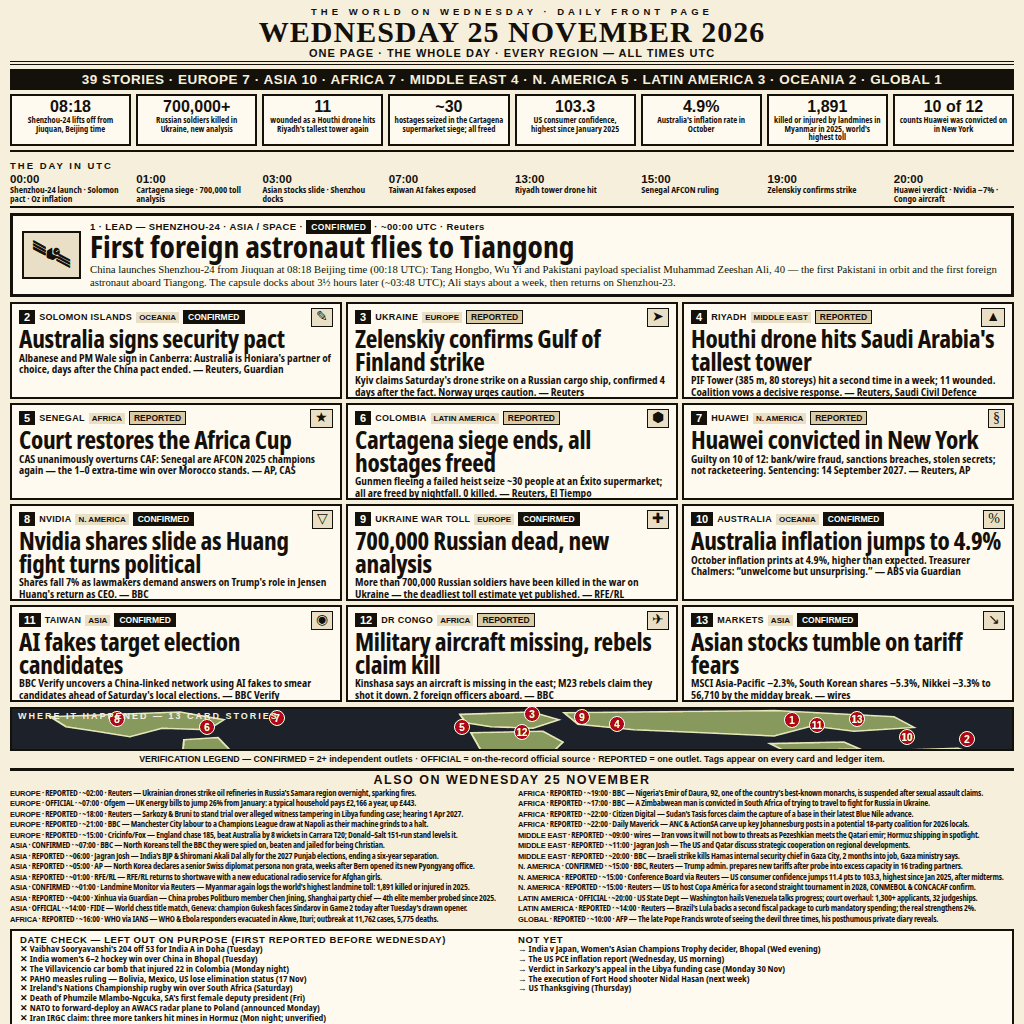
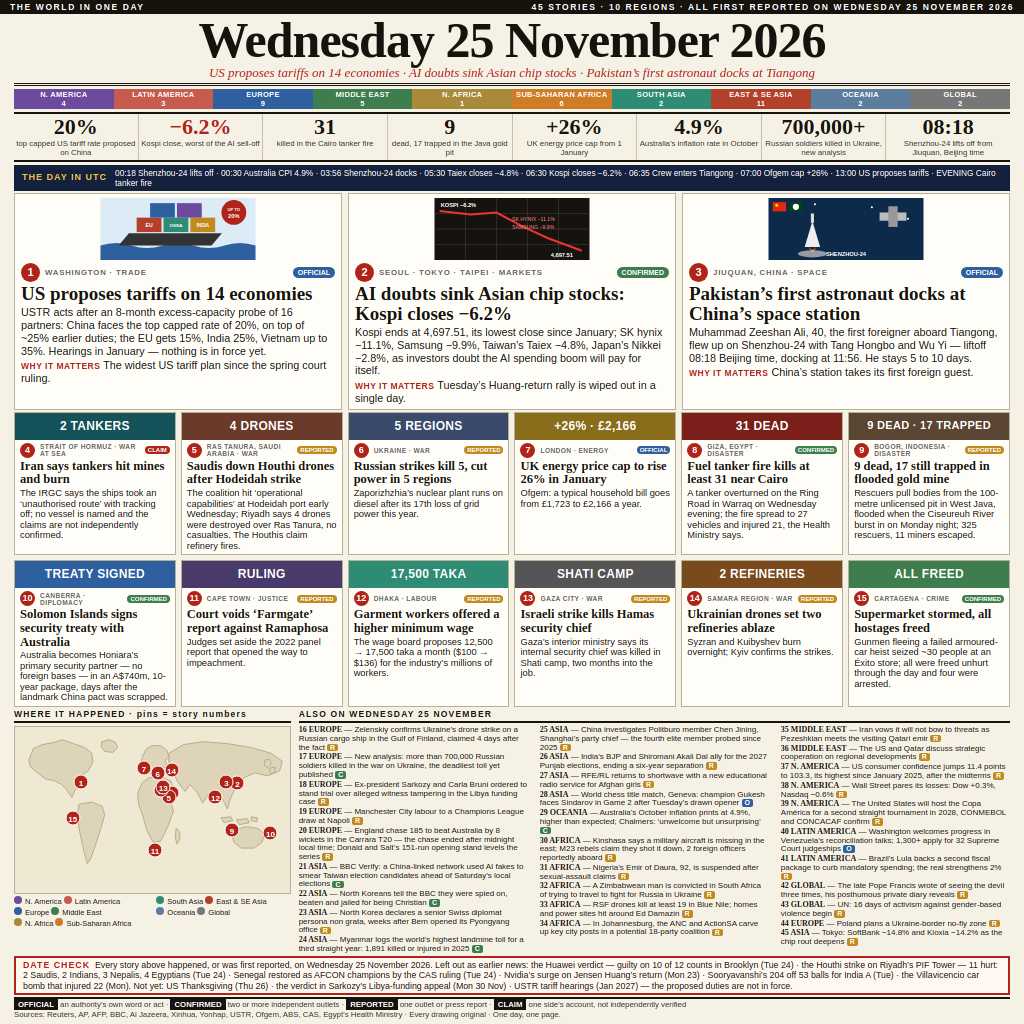
News 25 total revision

diff --git a/main.py b/main.py
@@ -1,25 +1,36 @@
-"""news-image-20261125 entry: Wednesday 25 November 2026 in one page.
+"""Entry point for the news-image-20261125 submission.
 
-The front page is rendered ahead of time by the build pipeline and stored
-beside this file as art.png. This program's whole job is to deliver those
-exact bytes as entry.png in the output directory, using nothing but the
-Python standard library, so the two grading runs agree byte for byte.
+Copies the shipped newspaper page image (``art.png``, stored next
+to this file) to ``entry.png`` in the output directory, verifies
+the copy by size and SHA-256, and repeats the copy under a temp
+name to prove both runs write identical bytes.
+Standard library only.
 """
 
 import os
-import shutil
+from pathlib import Path
 
-HERE = os.path.dirname(os.path.abspath(__file__))
-SOURCE = os.path.join(HERE, "art.png")
-DEFAULT_OUTPUT_DIR = "/output"
+import copier
 
 
 def main() -> None:
-    output_dir = os.environ.get("MAKEFUN_OUTPUT_DIR", DEFAULT_OUTPUT_DIR)
-    os.makedirs(output_dir, exist_ok=True)
-    target = os.path.join(output_dir, "entry.png")
-    with open(SOURCE, "rb") as src, open(target, "wb") as dst:
-        shutil.copyfileobj(src, dst, length=1024 * 64)
+    here = Path(__file__).resolve().parent
+    source = here / "art.png"
+    out_dir = Path(os.environ.get("MAKEFUN_OUTPUT_DIR", "/output"))
+    dest = out_dir / "entry.png"
+
+    # First copy: the deliverable.
+    size, digest = copier.copy_entry(source, dest)
+    assert copier.verify_entry(dest, size, digest), "entry.png failed verification"
+
+    # Second copy to a temp name: hashes must match the first run.
+    repeat = out_dir / "entry.repeat.tmp.png"
+    size2, digest2 = copier.copy_entry(source, repeat)
+    assert (size2, digest2) == (size, digest), "repeat copy differs"
+    assert copier.verify_entry(repeat, size, digest), "repeat copy failed verification"
+    repeat.unlink()
+
+    print(f"entry.png: {size} bytes sha256={digest[:16]}… verified")
 
 
 if __name__ == "__main__":

diff --git a/copier.py b/copier.py
@@ -1,0 +1,39 @@
+"""Copy helper for the news-image entry.
+
+The entry image is shipped in the repository as data (``art.png``).
+This module copies it to the output location and proves, by size
+and SHA-256, that the bytes written are exactly the bytes shipped.
+Only the Python standard library is used.
+"""
+
+import hashlib
+from pathlib import Path
+
+
+def sha256_of(data: bytes) -> str:
+    """Return the hex SHA-256 digest of *data*."""
+    return hashlib.sha256(data).hexdigest()
+
+
+def copy_entry(source: Path, dest: Path) -> tuple[int, str]:
+    """Copy *source* to *dest*, creating parent directories.
+
+    Returns a ``(size, sha256)`` tuple describing the bytes copied,
+    so callers can verify the copy without re-reading the source.
+    """
+    data = source.read_bytes()
+    dest.parent.mkdir(parents=True, exist_ok=True)
+    dest.write_bytes(data)
+    return len(data), sha256_of(data)
+
+
+def verify_entry(path: Path, expected_size: int, expected_sha256: str) -> bool:
+    """Re-read *path* and check its size and SHA-256.
+
+    Returns True only when both the byte count and the digest of
+    the file on disk match the expected values exactly.
+    """
+    if not path.is_file():
+        return False
+    data = path.read_bytes()
+    return len(data) == expected_size and sha256_of(data) == expected_sha256

diff --git a/README.md b/README.md
@@ -4,7 +4,7 @@
 [![rank](https://make.fun/badge/news-image-20261125/fishit1070/news-image-20261125/rank.svg)](https://make.fun/bounty/news-image-20261125/leaderboard?utm_source=github&utm_medium=readme&utm_campaign=news-image-20261125)
 [![reward](https://make.fun/badge/news-image-20261125/fishit1070/news-image-20261125/reward.svg)](https://make.fun/bounty/news-image-20261125?utm_source=github&utm_medium=readme&utm_campaign=news-image-20261125)
 
-One page that sums up the world's news of Wednesday 25 November 2026: 39 checked stories — Shenzhou-24 carrying the first foreign astronaut to Tiangong, the Australia–Solomon Islands security pact, Senegal's Africa Cup restored by the sports court, and the rest of the day — drawn as a newspaper front page with a UTC timeline strip, a numbers strip, a numbered world map and a date check.
+One page that sums up the world's news of Wednesday 25 November 2026: 45 checked stories — the US tariff proposal on 14 economies, the Asian chip rout, Pakistan's first astronaut at Tiangong, the Cairo tanker fire and the Bogor mine rescue — drawn as a newspaper front page with a UTC timeline strip, a numbers strip, a numbered dotted world map and a date check that names what was left out and why.
 
 ## Run it
 
